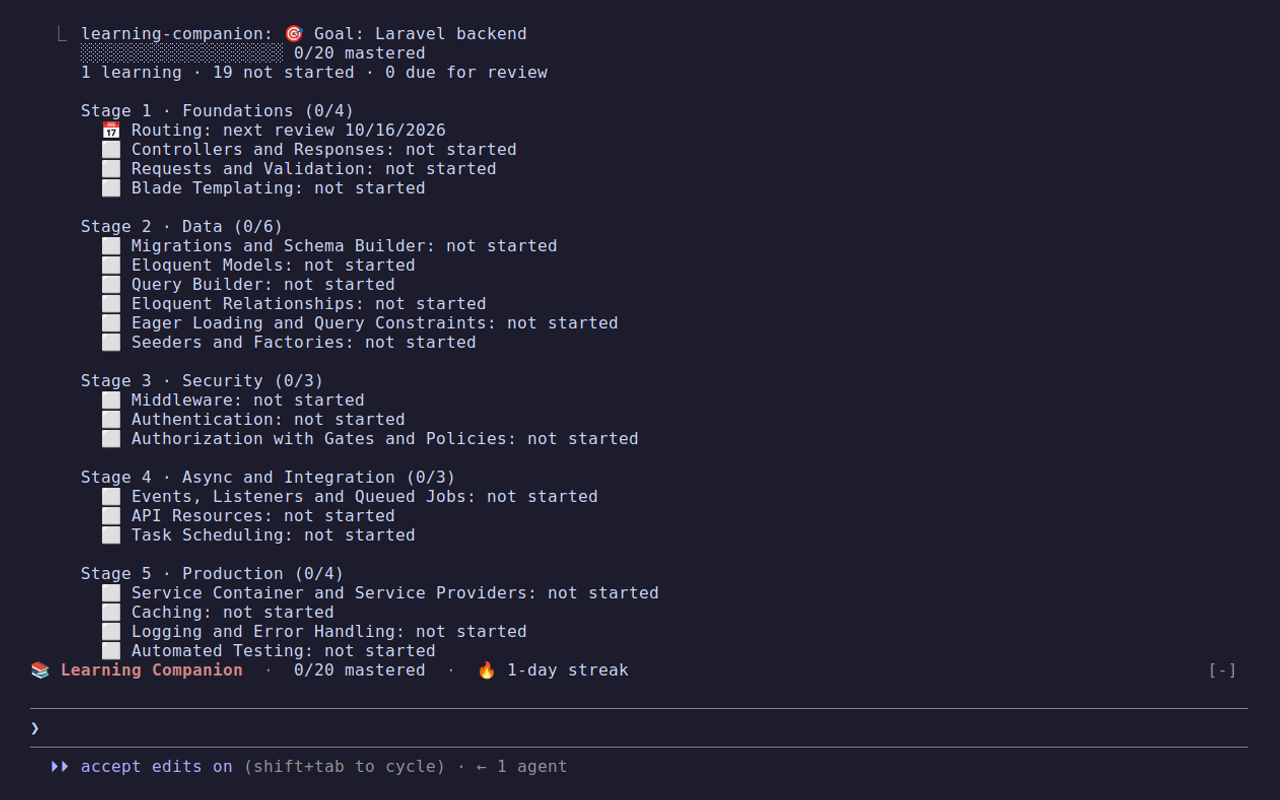
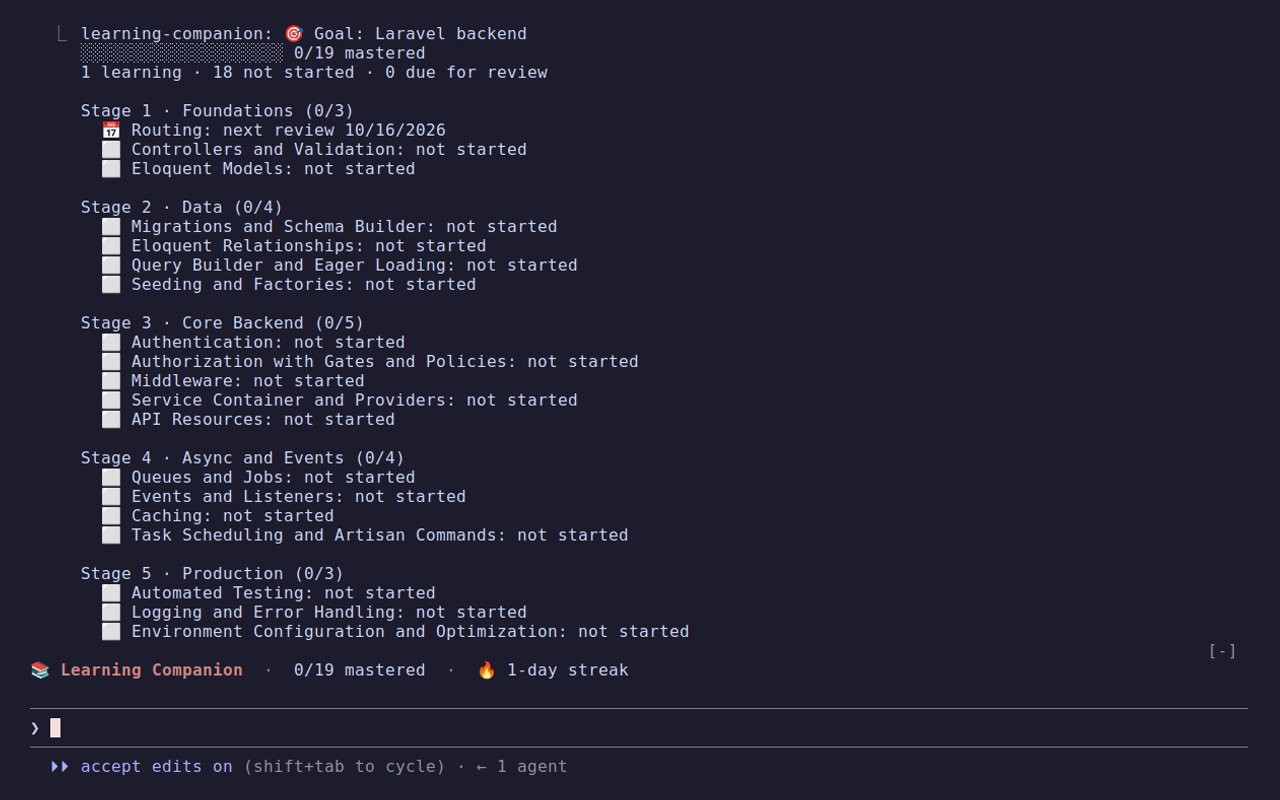
Separate the progress band from the conversation; release 2.4.1
The band above the prompt now has a blank row above it. The row under it
is Claude Code's own, where it shows hints such as the effort level, so the
band leaves it alone. The progress and tutor screenshots and the GIF are
re-recorded with the gap.

diff --git a/hooks/register.ts b/hooks/register.ts
@@ -97,7 +97,7 @@ async function drawBand($: $, e: RenderInput<'AbovePrompt'>) {
     streak ? h(Text, null, `🔥 ${streak}-day streak`) : undefined,
     state.pendingReview ? h(Text, null, `💡 ${state.pendingReview.concept}`, h(Text, { dimColor: true }, ' (lesson at end of turn)')) : undefined,
   ].filter(Boolean)
-  return h(Box, null,
+  return h(Box, { marginTop: 1 },
     h(Text, { wrap: 'truncate-end' },
       h(Text, { color: 'claude', bold: true }, '📚 Learning Companion'),
       ...parts.flatMap(part => [dot(), part]))) as RenderElement

diff --git a/CHANGELOG.md b/CHANGELOG.md
@@ -11,6 +11,12 @@ claude plugin marketplace update learning-companion
 claude plugin update learning-companion@learning-companion
 ```
 
+## [2.4.1] - 2026-10-15
+
+### Changed
+
+- The progress band above the prompt has a blank row above it, so it stands apart from the conversation.
+
 ## [2.4.0] - 2026-10-15
 
 ### Added
@@ -116,6 +122,7 @@ Rebuilt as a function-hook plugin (mod). Needs Claude Code 2.1.288 or later; no 
 - Writes to secret files (`.env*`, keys, credentials) are skipped, and secret-looking values in kept snippets
   are replaced with `[REDACTED]`.
 
+[2.4.1]: https://github.com/Komeyl94/claude-learning-companion/compare/v2.4.0...v2.4.1
 [2.4.0]: https://github.com/Komeyl94/claude-learning-companion/compare/v2.3.1...v2.4.0
 [2.3.1]: https://github.com/Komeyl94/claude-learning-companion/compare/v2.3.0...v2.3.1
 [2.3.0]: https://github.com/Komeyl94/claude-learning-companion/compare/v2.2.0...v2.3.0
